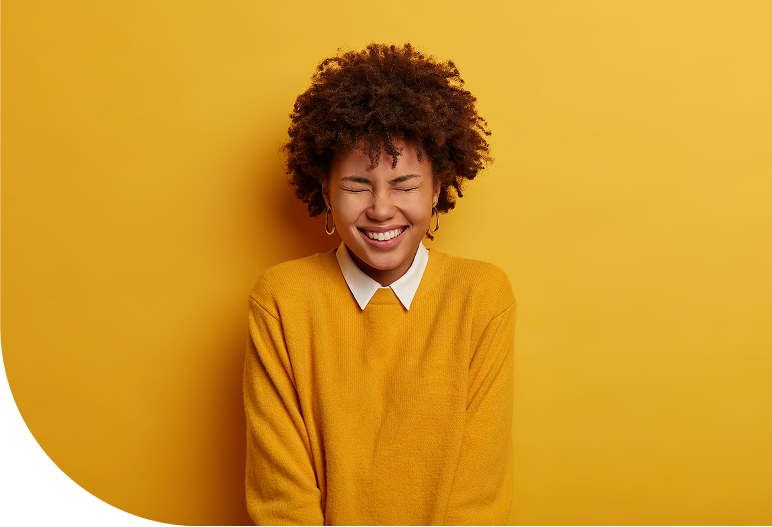
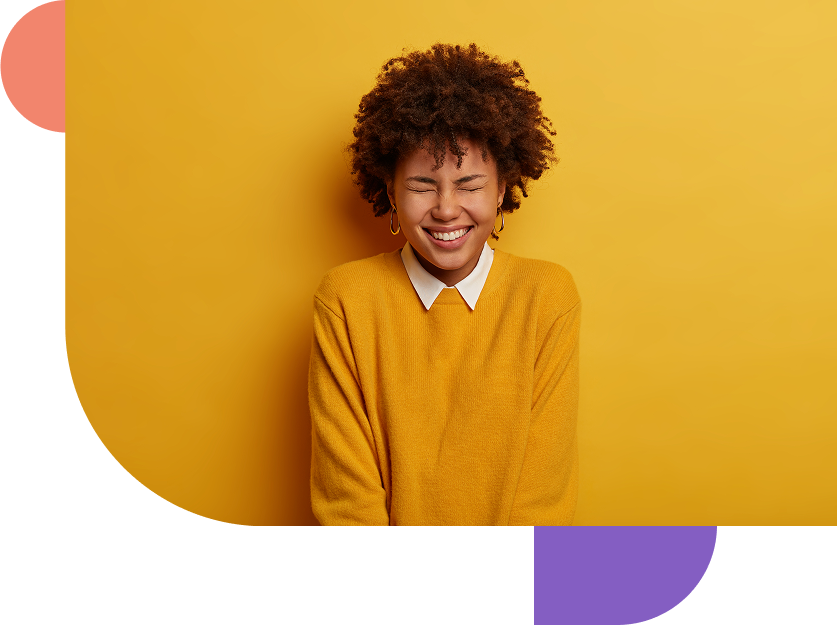
[style] home

diff --git a/public/css/estilo.css b/public/css/estilo.css
@@ -96,6 +96,7 @@ body {
 
 .banner {
   color: white;
+  margin-bottom: 140px;
 }
 
 .banner .container {
@@ -154,8 +155,8 @@ body {
 }
 
 .banner-image {
-  width: 55%;
-  height: 500px;
+  width: 60%;
+  height: 810px;
   position: relative;
   overflow: hidden;
   border-radius: 0 0 0 250px;
@@ -165,30 +166,52 @@ body {
   background-position: center;
 }
 
-/* .banner-image::before {
-  content: "";
-  position: absolute;
-  top: 0;
-  right: 0;
-  width: 100%;
-  height: 100%;
-  z-index: -1;
-} */
-
 /* DESTAQUES */
 
 .destaque {
-  background-color: #F9F9F9;
   display: flex;
+  margin-bottom: 60px;
+  background: url(../assets/imgs/destaque-azul.png) no-repeat right top / contain;
+  background-position: right center;
 }
 
 .destaque .container {
   display: flex;
   align-items: center;
-  justify-content: center;
+  justify-content: space-between;
   height: 600px;
   width: 100%;
   margin-top: 100px;
+  background: url(../assets/imgs/destaque-laranja.png) no-repeat  top / contain;
+  background-size: 178px;
+  background-position: 50px 100px;
+}
+
+.destaque .container .boxes {
+  display: flex;
+  justify-content: space-between;
+  width: 100%;
+  padding: 30px 0;
+}
+
+.destaque-text {
+  display: flex;
+  flex-direction: column;
+  text-align: left;
+  margin-left: 80px;
+  gap: 40px;
+  margin-bottom: 80px;
+}
+
+.destaque-text h4 {
+  font-size: 37px;
+  width: 250px;
+}
+
+.destaque-text p {
+  text-align: left;
+  font-size: 16px;
+  width: 300px;
 }
 
 .boxes {
@@ -252,7 +275,6 @@ margin: 20px 0px;
   bottom: 10%;
 }
 
-
 .box1 img {
   background-color: #DACFED;
 }
@@ -272,21 +294,39 @@ margin: 20px 0px;
   background-color: #CCE6F5;
 }
 
-.destaque .container .boxes {
-  display: flex;
-  justify-content: space-between;
-  width: 100%;
-  padding: 30px 0;
-}
-
-.destaque p {
-  text-align: center;
-}
-
 .box {
   display: flex;
   flex-direction: column;
   align-items: center;
+}
+
+/* SOBRE */
+
+.sobre {
+  display: flex;
+  flex-direction: column;
+  align-items: center;
+  margin-bottom: 30px;
+}
+
+.sobre .container {
+  display: flex;
+  justify-content: space-evenly;
+  align-items: center;
+  width: 100%;
+}
+
+.sobre-text h4 {
+  display: flex;
+  width: 200px;
+  font-size: 24px;
+  margin-bottom: 30px ;
+}
+
+.sobre-text p {
+  display: flex;
+  width: 400px;
+  font-size: 18px;
 }
 
 /* FOOTER */

diff --git a/public/index.html b/public/index.html
@@ -45,7 +45,7 @@
       <div class="banner-content">
         <div class="banner-text">
           <h1>Mood Tracker</h1>
-          <p><span>Entender o que se passa dentro de você é um ato de cuidado.</span>
+          <p><span>Entender o que se passa dentro de você é um ato de cuidado.</span> <br>
             Registre o que você sente e dê o primeiro passo para se conhecer melhor.</p>
           <a href="./cadastro.html" class="banner-button">Começar agora</a>
         </div>
@@ -59,8 +59,8 @@
   <div class="destaque">
     <div class="container">
       <div class="destaque-text">
-          <h4>Mapeie Suas Emoções</h4>
-          <p>Você terá acesso a recursos gráficos personalizados para identificar padrões emocionais
+        <h4>Mapeie Suas Emoções</h4>
+        <p>Você terá acesso a recursos gráficos personalizados para identificar padrões emocionais
           e tomar decisões mais conscientes no seu dia a dia.</p>
       </div>
       <div class="boxes">
@@ -86,6 +86,19 @@
           <p>Descubra padrões emocionais semanais, mensais ou anuais com base nos seus registros.</p>
         </div>
       </div>
+    </div>
+  </div>
+
+  <div class="sobre">
+    <h1>Sobre</h1>
+    <div class="container">
+      <img src="./assets/imgs/foto.png" alt="Foto de perfil">
+      <div class="sobre-text">
+        <h4>Nathalli Ribeiro</h4>
+        <p>Brasileira, natural de Brasília-DF. Vivendo em São Paulo em busca de oportunidades para crescer e evoluir por
+          meio da tecnologia.</p>
+      </div>
+      <img src="./assets/imgs/bolinhas.png">
     </div>
   </div>
 

diff --git a/public/css/log.css b/public/css/log.css
@@ -31,15 +31,23 @@ body, html {
   position: relative;
 }
 
-.logo_login {
-  width: 100px;
-  margin-bottom: 20px;
+.card-login {
+  display: flex;
+  flex-direction: column;
+  align-items: center;
+}
+
+.card-login img {
+  width: 150px;
+  margin-top: 20px;
+  margin-bottom: 10px;
 }
 
 .painel-esquerdo h2 {
-  font-size: 22px;
+  font-size: 24px;
   color: #030229;
-  margin-bottom: 30px;
+  margin-bottom: 40px;
+  font-weight: 700;
 }
 
 .voltar-seta {
@@ -53,7 +61,7 @@ body, html {
 }
 
 .formulario {
-  max-width: 300px;
+  width: 500px;
   display: flex;
   flex-direction: column;
 }
@@ -76,6 +84,7 @@ body, html {
   border: 1px solid #ccc;
   outline: none;
   font-size: 14px;
+  width: 100%;
 }
 
 

diff --git a/public/cadastro.html b/public/cadastro.html
@@ -25,7 +25,7 @@
       </div>
 
       <div class="container">
-        <div class="card card-cadastro">
+        <div class="card-login">
           <img class="logo_login" src="./assets/icon/logotitle.svg" alt="Logo Mood Tracker" />
           <h2>Cadastro</h2>
 

diff --git a/public/login.html b/public/login.html
@@ -25,7 +25,7 @@
       </div>
 
       <div class="container">
-        <div class="card card-login">
+        <div class="card-login">
           <img class="logo_login" src="./assets/icon/logotitle.svg" alt="Logo Mood Tracker">
           <h2>Login</h2>
 
